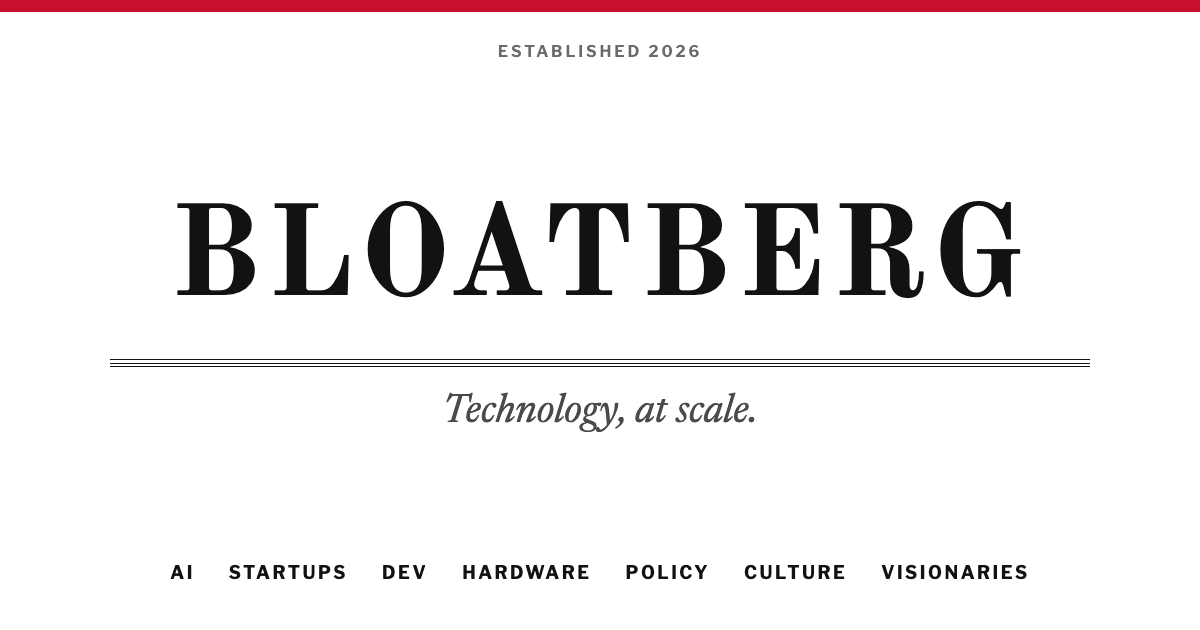
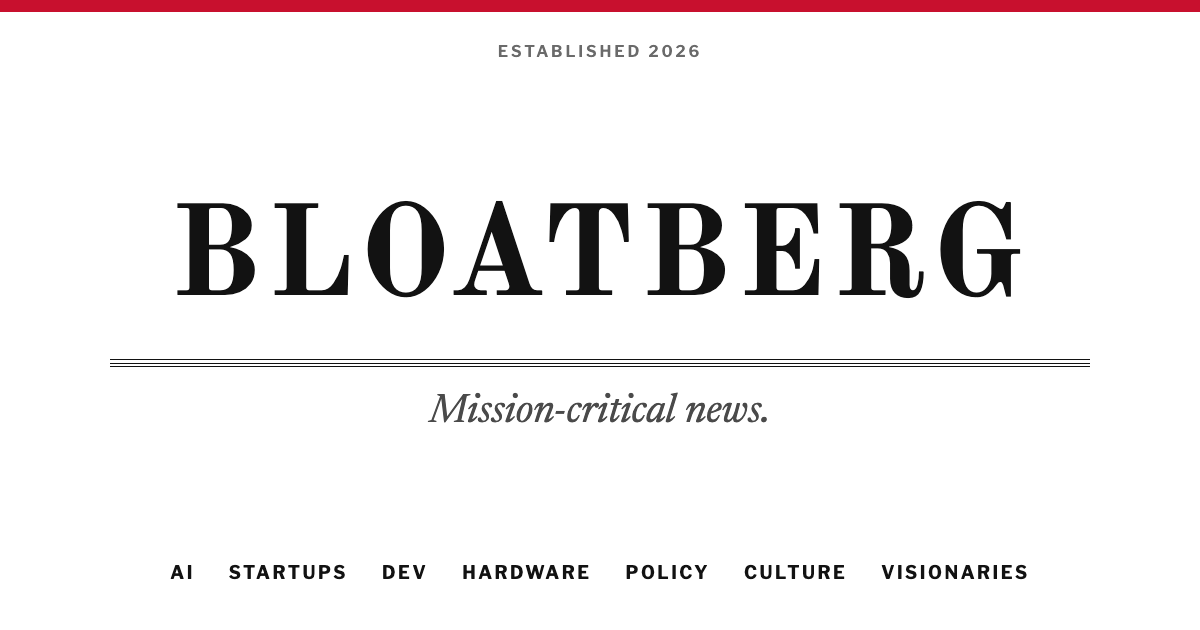
Change tagline to 'Mission-critical news.'
Already deployed to bloatberg.com; this brings the repo in line with production.

Changed region(s): [[0.3392, 0.6032, 0.6475, 0.6937]]

diff --git a/assets/og-default.html b/assets/og-default.html
@@ -13,6 +13,6 @@ html, body { margin: 0; width: 1200px; height: 630px; overflow: hidden; backgrou
 .est { position: absolute; top: 44px; font: 600 16px/1 'Franklin', sans-serif; letter-spacing: .18em; color: #6a6a6a; text-transform: uppercase; }
 </style></head><body><div class="card"><div class="top"></div>
 <div class="est">Established 2026</div>
-<div class="wm">Bloatberg</div><div class="rule"></div><div class="tag">Technology, at scale.</div>
+<div class="wm">Bloatberg</div><div class="rule"></div><div class="tag">Mission-critical news.</div>
 <div class="nav"><span>AI</span><span>STARTUPS</span><span>DEV</span><span>HARDWARE</span><span>POLICY</span><span>CULTURE</span><span>VISIONARIES</span></div>
 </div></body></html>

diff --git a/src/config.ts b/src/config.ts
@@ -2,7 +2,7 @@
 export const site = {
   name: 'Bloatberg',
   newsletter: 'The Weekly Bloat',
-  tagline: 'Technology, at scale.',
+  tagline: 'Mission-critical news.',
   founded: 2026,
   description:
     'Bloatberg covers the companies, people and products shaping technology, from AI and startups to hardware, policy, culture and the visionaries behind it all.',
